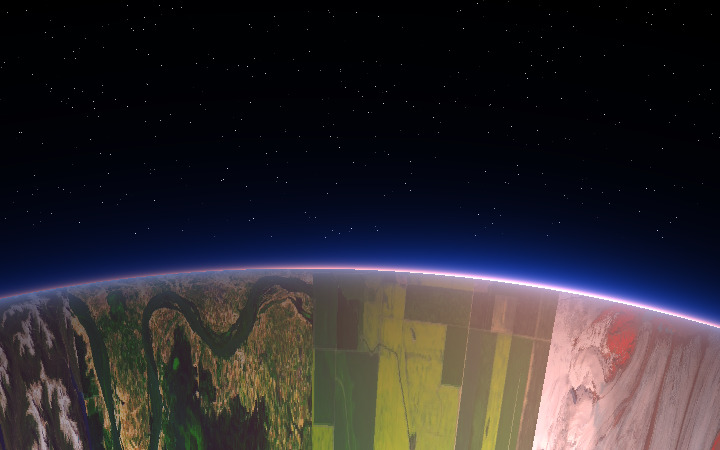
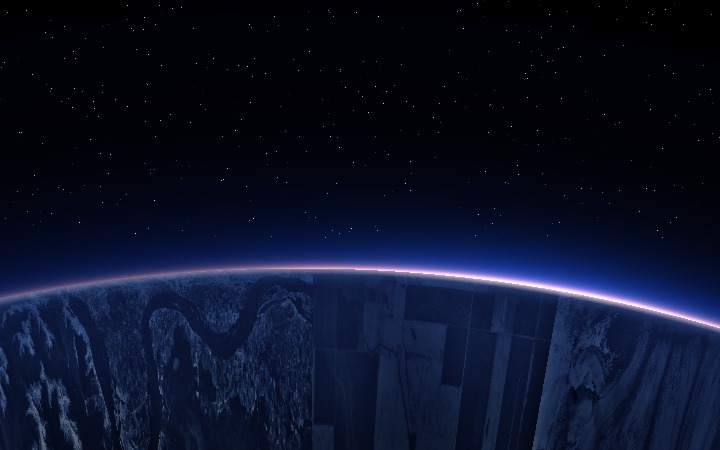
feat(web): calmer planet backdrop, shown in light themes too
The planet's surface was seven differently coloured satellite scenes that
read as random blocks, and the backdrop was hidden in light themes.

The surface is regraded to one night-side palette with the scenes'
exposure evened out. Light themes show a faint negative of it on a
lightly tinted background.

diff --git a/apps/web/src/components/chat/DraftHeroBackdrop.tsx b/apps/web/src/components/chat/DraftHeroBackdrop.tsx
@@ -13,10 +13,9 @@ import { startLimbRipples } from "./limbRipples";
 const HERO_HEIGHT_RATIO = 1.25;
 const AMBIENT_HEIGHT_RATIO = 1.5;
 /**
- * The new-thread screen's backdrop: the seven Landsat scenes that spell STELLAR, wrapped onto a
- * planet's limb under an orange-blue atmosphere, ordered-dithered; the pointer stirs it like
- * water, re-dithering the dots as waves pass (see `limbRipples`).
- * It is dark art, so it shows only in the dark theme, where text over it stays readable.
+ * The backdrop: Landsat scenes on a planet's limb, graded to one palette and dithered; the pointer
+ * stirs it like water (see `limbRipples`). The art is dark, so the light theme shows its negative
+ * with hues turned back (ink stars on a paper sky) and text stays readable in both.
  */
 export function DraftHeroBackdrop(props: { readonly ambient?: boolean }) {
   const ambient = props.ambient === true;
@@ -58,7 +57,7 @@ export function DraftHeroBackdrop(props: { readonly ambient?: boolean }) {
   return (
     <div
       aria-hidden="true"
-      className="pointer-events-none absolute inset-0 -z-10 hidden overflow-hidden bg-black dark:block"
+      className="pointer-events-none absolute inset-0 -z-10 overflow-hidden bg-hero-paper dark:bg-black"
     >
       <canvas
         ref={canvasRef}
@@ -66,7 +65,9 @@ export function DraftHeroBackdrop(props: { readonly ambient?: boolean }) {
         height={450}
         className={cn(
           "absolute inset-x-0 top-0 w-full object-cover object-top [image-rendering:pixelated]",
-          ambient && "opacity-55",
+          "hue-rotate-180 invert dark:hue-rotate-0 dark:invert-0",
+          // Light themes get a faint pencil drawing of it; at full strength it glares.
+          ambient ? "opacity-25 dark:opacity-55" : "opacity-40 dark:opacity-100",
         )}
         style={{ height: `${(ambient ? AMBIENT_HEIGHT_RATIO : HERO_HEIGHT_RATIO) * 100}%` }}
       />
@@ -74,12 +75,12 @@ export function DraftHeroBackdrop(props: { readonly ambient?: boolean }) {
         className={cn(
           "absolute inset-0 bg-linear-to-b",
           ambient
-            ? "from-black/70 via-black/45 to-black/20"
-            : "from-black/40 via-transparent to-black/50",
+            ? "dark:from-black/70 dark:via-black/45 dark:to-black/20"
+            : "via-transparent dark:from-black/40 dark:to-black/50",
         )}
       />
       {ambient ? null : (
-        <p className="absolute right-3 bottom-2 text-3xs text-white/50">
+        <p className="absolute right-3 bottom-2 text-3xs text-foreground/40 dark:text-white/50">
           Landsat imagery: NASA and USGS
         </p>
       )}
